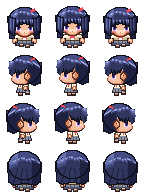
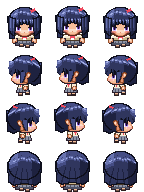
ちびキャラ：横向きの耳のまわりを手本の作りに合わせる（アーモンド形の耳、もみあげ、斜めの線、耳の下の首）
Claude-Session: https://claude.ai/code/session_017gxvkc2TW4xYgG5MuSL3N1

diff --git a/files.js b/files.js
@@ -2,7 +2,7 @@
 // マップなどを足したら scripts に1行足す（順番どおりに読み込む。main.js は最後）。
 // 版の番号 v は tools/stamp.py が書き換える。
 window.FILES = {
-  v: '20261127045616',
+  v: '20261127045947',
   scripts: [
     'engine/core.js',
     'engine/world.js',

diff --git a/tools/sprites/make_chibi.py b/tools/sprites/make_chibi.py
@@ -90,7 +90,7 @@ class Pixel(Chibi):
 
 BASE = {
     'skin1': '#fbdcc8', 'skin2': '#f6bf9c', 'skinS': '#e2916f', 'skinLine': '#5a2c20', 'blush': '#ff8f96',
-    'eyeW': '#ffffff', 'handO': '#97502c', 'lash': '#1a0f1c', 'mouth': '#c85a5e', 'line': '#2a1e2a',
+    'eyeW': '#ffffff', 'handO': '#97502c', 'earO': '#7a3c20', 'lash': '#1a0f1c', 'mouth': '#c85a5e', 'line': '#2a1e2a',
 }
 CHARS = {
     'yui_chibi': dict(BASE, girl=True, **{
@@ -287,7 +287,7 @@ def face_shade(a, c, m, hw_top=9):
 
 # ---- 横向きは「行ごとの前端・後端の表」で形を決める（手本をドット単位で測った値をそのまま書ける）
 # 横顔：(前端, 後端)。27〜28行が鼻筋（−12）、29〜31行で1ドット前に出て鼻（−13）、32行で輪郭1ドット分引っ込んで あごへ
-FACE_SIDE = {**{y: (-9, 2) for y in range(16, 23)}, 23: (-10, 2), 24: (-10, 2), 25: (-11, 2), 26: (-11, 2),
+FACE_SIDE = {**{y: (-9, -1) for y in range(16, 23)}, 23: (-10, 2), 24: (-10, 2), 25: (-11, 2), 26: (-11, 2),
              27: (-12, 2), 28: (-12, 2), 29: (-13, 3), 30: (-13, 3), 31: (-13, 3), 32: (-11, 3), 33: (-10, 3), 34: (-8, 2)}
 FACE_SIDE_LINE = [(-12, 32), (-11, 33), (-10, 34), (-9, 34)] + [(x, 35) for x in range(-8, 4)]  # あごの下だけ濃い輪郭（前の縁は輪郭なし）
 # 横向きの胴：上は細く、前の縁を斜めに下へ広げて、下半身の広さとの落差を出す
@@ -378,9 +378,9 @@ def head(a, c, side):
             fm = a.part([('e', -12.6, 16, 2.8, 34.6)], c['skin1'], c['skin2'], shade=c['skinS'], line=c['skinLine'], lw=0.6)
         bangs(a, c, -15.2, 3, [(-16, -12.4, 25.4), (-12.6, -9, 23.4), (-9.2, -5.6, 24.2), (-5.8, -2.4, 23), (-2.6, 1, 22.4)], base=18, face=fm)
         # 耳（顔の後ろ）
-        a.part([('e', 1, 23.6, 4.6, 29.6)], c['skin2'], c['skin2'], shade=c['skinS'], line=c['skinLine'], lw=0.6)
+        if not isinstance(a, Pixel):
+            a.part([('e', 1, 23.6, 4.6, 29.6)], c['skin2'], c['skin2'], shade=c['skinS'], line=c['skinLine'], lw=0.6)
         if isinstance(a, Pixel):
-            a.dots(3, 25, ['3', '4'], {'3': c['skinS'], '4': c['handO']})
             a.stroke([(-6, 9), (-2, 7), (3, 7)], c['hairL'])
         else:
             a.clip(hm, [('e', -8, 8.4, 6, 11.6)], c['hairL'], 0.45, blur=0.6)
@@ -495,6 +495,63 @@ def hair_shade(im, c, side):
             px[X, Y] = T[t] + (255,)
 
 
+# ---- 横向きの耳のまわり（手本を1ドットずつ測った作りを表にしたもの。左端の列 x、23行から）
+# 1〜4 肌（明・中・影・濃い影）／# 濃い輪郭／o 耳の縁の茶色／H 髪（髪でなければ中間の髪色で塗る）／S 髪の影の色／_ 透明／. そのまま
+EAR_SIDE_BOY = (-2, 23, [
+    'SHH.#ooo....',
+    'SHH.#434o...',
+    'SHH#o312o...',
+    'SHH#4312#...',
+    'SH#43324#...',
+    '##33334#S...',
+    '33333##SS...',
+    '223334SS....',
+    '223334SS....',
+    '233334SSS...',
+    '333344SSS###',
+    '33344##SSSS_',
+    '#####__####_',
+])
+EAR_SIDE_GIRL = (-4, 23, [
+    'SHHHHSHooo....',
+    'SHHHH#o434o...',
+    'SHHHH#o312o...',
+    'SHHHH#4312#...',
+    'SHHHS#3324#...',
+    'SHHH#4334#S...',
+    'SHHH#43##SS...',
+    'SHHS#334SS....',
+    'SHH#4334SS....',
+    'SHS#4334SS....',
+    'SH#44444SSSSS.',
+])
+
+
+def ear_side(im, c):
+    girl = c['girl']
+    x0, y0, rows = EAR_SIDE_GIRL if girl else EAR_SIDE_BOY
+    if girl:
+        hairs = {rgb(h) for h in HAIR_TONES}
+        mid, dark = rgb(HAIR_TONES[2]), rgb(HAIR_TONES[4])
+    else:
+        hairs = {tuple(c[k][:3]) for k in ('hair1', 'hair2', 'hairL')}
+        mid, dark = tuple(c['hair1'][:3]), tuple(c['hair2'][:3])
+    pal = {'1': c['skin1'], '2': c['skin2'], '3': c['skinS'], '4': c['handO'], '#': c['line'], 'o': c['earO'], 'S': dark}
+    px = im.load()
+    for j, row in enumerate(rows):
+        for i, ch in enumerate(row):
+            X, Y = CX + x0 + i, y0 + j
+            if ch == '.':
+                continue
+            if ch == '_':
+                px[X, Y] = (0, 0, 0, 0)
+            elif ch == 'H':
+                if px[X, Y][3] < 128 or tuple(px[X, Y][:3]) not in hairs:
+                    px[X, Y] = mid + (255,)
+            else:
+                px[X, Y] = tuple(pal[ch][:3]) + (255,)
+
+
 Art = Pixel  # 塗り方：Pixel（くっきりしたドット絵）／Chibi（イラストを縮めた柔らかい塗り）
 
 
@@ -507,6 +564,8 @@ def frame(ch, d, step):
     head(up, c, side)
     if c['girl'] and Art is Pixel:
         hair_shade(up.im, c, side)
+    if side == 'left' and Art is Pixel:
+        ear_side(up.im, c)
     im = a.im
     bob = 0 if step == 1 else (1 if Art is Pixel else round(0.6 * SS))
     im.alpha_composite(up.im, (0, bob))

diff --git a/CLAUDE.md b/CLAUDE.md
@@ -10,7 +10,7 @@
 - 校舎（廊下8枚と部屋の型）は `tools/gen_school.py` で生成する。生成した `data/maps/school_*.js` は直接直さず、スクリプトを直して作り直す。お話のイベントは `data/story.js` に `G.addEvents` で足す（`at: '扉の名前'` で位置を決められる）。見取り図の施設名のうち学校が特定されそうな名前は一般的な名前に変える
 - 参考にした市販ゲームのファイル（データ・画像・音・シナリオ）はこのリポジトリに入れない
 - タイル素材（ドット絵世界）は二次配布禁止。元のPNGは入れず、`tools/encode_tileset.py` で変換した `data/tilesets/*.js` だけを入れる。タイトル画面の著作権表示（system.js の credits）は消さない
-- キャラの歩行グラフィックは、いまはちびキャラ（手本：RPGツクールMVの標準キャラの比率、約1.5頭身、1コマ48×48px）。`tools/sprites/make_chibi.py` で描き、`img/chars/haru_chibi.png`・`img/chars/yui_chibi.png` に書き出す。塗りは手本と同じくっきりしたドット絵（48×48pxに直接描く。ベタ塗り、段をつけた影と光、部品ごとに1ドットの濃い輪郭、目は1ドットずつ形を決め、白い光はほぼ使わず外側の白目と上が濃い瞳で表す。髪のかたまりは小さめで額は高め、前髪には毛束の明るい筋を1本おきに入れて凹凸を出す。女子の髪は5段（光・明・中・暗・影）で束ごとに塗り分ける（make_chibi.py の hair_shade。頭頂はつむじから放射状の束で境目に暗い線、頭の丸みに沿って束ごとに上下へずれたギザギザの天使の輪（束の真ん中だけ光の色）、前髪は束ごとに上が明るく下ほど暗く真ん中に光の筋、横・後ろの髪は縦の束で左が明るく右と下が暗い。髪型が手本と違うので、ここは手本を写さず工夫したもの）。胴は肩が細く裾へ広がる八の字で、腕も外へ開く。前髪の毛先は目の上端に接するまで下ろし、真ん中の毛束だけ短くしてそのすき間から額をのぞかせる。前髪のすぐ下の肌には影（1段目は影色、2段目は中間色）。顔の横の髪で、目の外側の端からあごの近くまで顔を縁取る（男子は細く短め）。肌は桃色がかった色（白っぽくしない）。顔は上下と左右に4段（明・中間・影・濃い影）の明暗をドット単位でつけて立体感を出す（前髪の下は中間色→目の下から頬の段がいちばん明るい→その下は中間色→あごの段は影色。左右の端は内側へ濃い影→影→中間色、頬の段は影を1段多く）。目はまるごと見せる。やや上から見下ろしつつ足先まで全身を見せる（胴→スカート／ズボン→脚1ドット（女子は肌色）→靴2ドット（上が明るく下が暗い）。左右の足は幅5ドット（輪郭＋中身3）で間に1ドットのすき間。歩くと上げた足が1ドット上がる）。目は顔の大きさを変えずに大きく、5×5ドット（上まつげは3ドット幅で2段目が内側へ1ドットずれる斜め、黒目3ドット幅で上が濃く一番下が明るい、真ん中に縦2ドットの瞳孔、白目は外側3段・内側2段の両側）。目の間は7ドットで、目の外側は顔の縁（横の髪）に接する。見下ろす角度なので、肩はあごのすぐ下の行から始まり（上の面が明るく見える）、なで肩で下へ広がる。手は丸ではなくミトン形（幅4×高さ5、外側の輪郭は茶色・内側と下は濃い線で腕と胴の境目にもなる、明るい肌は真ん中上寄りに2×2、下の段の内側が欠けてその上に親指の付け根の点）。服の輪郭も濃い色。男子はシャツ6段・ベルト1段・ズボン3段（明るめの色、股の線）。女子のスカートは下半分に、地より濃い色の縦の折り目の線（中心をはさんで4ドット間隔の2本と、裾の両端寄り）。口は省いて鼻を1ドットの点で表す（頬のいちばん明るい段の最後の行、31行目）。幅の割合は、手を含めた体が頭の約8割。その中で胴は細く、肩と手を大きめにする）。横向き（左向き、前がマイナス）は、顔と胴の形を make_chibi.py の「行ごとの前端・後端の表」（FACE_SIDE・TORSO_SIDE_* など）で決める。手本を拡大して各行の端の位置を測り、その数字をそのまま表に書く（楕円や多角形で近似しない）。横顔は鼻筋がまっすぐ縦に続いたあと鼻で1ドット前に出て（鼻筋から下は顔より前に髪の輪郭を残さない）、その下で輪郭1ドット分の落差をつけてあごへ。あごは34行で終わり（下に出っ張らせない）、前の縁は輪郭線なしで濃い肌色、あごの下だけ濃い輪郭。目の前端は鼻筋から肌4ドット後ろ、前が黒目で後ろが白目。後ろに4×6ドットの耳。いちばん前の前髪は額の前に垂れる。明暗は前の縁が濃い影、前寄りの頬が最も明るく、耳に近い後ろほど暗い。女子の後ろ髪はあごの高さまで。胴は上が細く（36行で9〜10ドット）前の縁を斜めに下へ広げ、スカート・ズボンの広さとの落差を出す。手は胴の中ほどより後ろに4×5ドット、立ち姿は前後の足が並んで見える。手本を使うときは、拡大して絵そのものを見比べるのに加えて、行ごとの端の位置（前端・後端・上下の終わり）を手本とうちで並べて書き出し、1行ずつずれを確かめてから直す（ざっくりした観察で済ませない）。端は肌の色だけでなく、髪や輪郭も含めた「透明でない最も外側の点」で測る（肌だけ測ると、顔の前にはみ出した髪の輪郭で鼻が平らになっているのを見落とす）。「イラストを縮めた柔らかい塗り」は4頭身のための試しで、ちびキャラには使わない。3頭身・4頭身は見送り。約4頭身の版（`make_trial.py`→`trial.png`、`make_haru.py`→`haru.png`）も残してある。手本の絵は写さない（比率と描き方だけ合わせる）。直したらスクリプトを動かして画像を作り直す
+- キャラの歩行グラフィックは、いまはちびキャラ（手本：RPGツクールMVの標準キャラの比率、約1.5頭身、1コマ48×48px）。`tools/sprites/make_chibi.py` で描き、`img/chars/haru_chibi.png`・`img/chars/yui_chibi.png` に書き出す。塗りは手本と同じくっきりしたドット絵（48×48pxに直接描く。ベタ塗り、段をつけた影と光、部品ごとに1ドットの濃い輪郭、目は1ドットずつ形を決め、白い光はほぼ使わず外側の白目と上が濃い瞳で表す。髪のかたまりは小さめで額は高め、前髪には毛束の明るい筋を1本おきに入れて凹凸を出す。女子の髪は5段（光・明・中・暗・影）で束ごとに塗り分ける（make_chibi.py の hair_shade。頭頂はつむじから放射状の束で境目に暗い線、頭の丸みに沿って束ごとに上下へずれたギザギザの天使の輪（束の真ん中だけ光の色）、前髪は束ごとに上が明るく下ほど暗く真ん中に光の筋、横・後ろの髪は縦の束で左が明るく右と下が暗い。髪型が手本と違うので、ここは手本を写さず工夫したもの）。胴は肩が細く裾へ広がる八の字で、腕も外へ開く。前髪の毛先は目の上端に接するまで下ろし、真ん中の毛束だけ短くしてそのすき間から額をのぞかせる。前髪のすぐ下の肌には影（1段目は影色、2段目は中間色）。顔の横の髪で、目の外側の端からあごの近くまで顔を縁取る（男子は細く短め）。肌は桃色がかった色（白っぽくしない）。顔は上下と左右に4段（明・中間・影・濃い影）の明暗をドット単位でつけて立体感を出す（前髪の下は中間色→目の下から頬の段がいちばん明るい→その下は中間色→あごの段は影色。左右の端は内側へ濃い影→影→中間色、頬の段は影を1段多く）。目はまるごと見せる。やや上から見下ろしつつ足先まで全身を見せる（胴→スカート／ズボン→脚1ドット（女子は肌色）→靴2ドット（上が明るく下が暗い）。左右の足は幅5ドット（輪郭＋中身3）で間に1ドットのすき間。歩くと上げた足が1ドット上がる）。目は顔の大きさを変えずに大きく、5×5ドット（上まつげは3ドット幅で2段目が内側へ1ドットずれる斜め、黒目3ドット幅で上が濃く一番下が明るい、真ん中に縦2ドットの瞳孔、白目は外側3段・内側2段の両側）。目の間は7ドットで、目の外側は顔の縁（横の髪）に接する。見下ろす角度なので、肩はあごのすぐ下の行から始まり（上の面が明るく見える）、なで肩で下へ広がる。手は丸ではなくミトン形（幅4×高さ5、外側の輪郭は茶色・内側と下は濃い線で腕と胴の境目にもなる、明るい肌は真ん中上寄りに2×2、下の段の内側が欠けてその上に親指の付け根の点）。服の輪郭も濃い色。男子はシャツ6段・ベルト1段・ズボン3段（明るめの色、股の線）。女子のスカートは下半分に、地より濃い色の縦の折り目の線（中心をはさんで4ドット間隔の2本と、裾の両端寄り）。口は省いて鼻を1ドットの点で表す（頬のいちばん明るい段の最後の行、31行目）。幅の割合は、手を含めた体が頭の約8割。その中で胴は細く、肩と手を大きめにする）。横向き（左向き、前がマイナス）は、顔と胴の形を make_chibi.py の「行ごとの前端・後端の表」（FACE_SIDE・TORSO_SIDE_* など）で決める。手本を拡大して各行の端の位置を測り、その数字をそのまま表に書く（楕円や多角形で近似しない）。横顔は鼻筋がまっすぐ縦に続いたあと鼻で1ドット前に出て（鼻筋から下は顔より前に髪の輪郭を残さない）、その下で輪郭1ドット分の落差をつけてあごへ。あごは34行で終わり（下に出っ張らせない）、前の縁は輪郭線なしで濃い肌色、あごの下だけ濃い輪郭。目の前端は鼻筋から肌4ドット後ろ、前が黒目で後ろが白目。耳のまわりは make_chibi.py の EAR_SIDE_BOY／EAR_SIDE_GIRL の表で描く（手本を1ドットずつ測った作り：縦長のアーモンド形の耳で、上の縁は茶色、前の縁は黒、真ん中がいちばん明るい。耳の前はもみあげの髪で、顔側の縁は暗い髪色。もみあげの下の縁は耳の前から左下へ下りる黒い斜めの線（女子はあごの近くまで垂れる）。耳の下はあご・首の肌が後ろへ続き、その後ろの髪は影の色）。いちばん前の前髪は額の前に垂れる。明暗は前の縁が濃い影、前寄りの頬が最も明るく、耳に近い後ろほど暗い。女子の後ろ髪はあごの高さまで。胴は上が細く（36行で9〜10ドット）前の縁を斜めに下へ広げ、スカート・ズボンの広さとの落差を出す。手は胴の中ほどより後ろに4×5ドット、立ち姿は前後の足が並んで見える。手本を使うときは、拡大して絵そのものを見比べるのに加えて、行ごとの端の位置（前端・後端・上下の終わり）を手本とうちで並べて書き出し、1行ずつずれを確かめてから直す（ざっくりした観察で済ませない）。端は肌の色だけでなく、髪や輪郭も含めた「透明でない最も外側の点」で測る（肌だけ測ると、顔の前にはみ出した髪の輪郭で鼻が平らになっているのを見落とす）。「イラストを縮めた柔らかい塗り」は4頭身のための試しで、ちびキャラには使わない。3頭身・4頭身は見送り。約4頭身の版（`make_trial.py`→`trial.png`、`make_haru.py`→`haru.png`）も残してある。手本の絵は写さない（比率と描き方だけ合わせる）。直したらスクリプトを動かして画像を作り直す
 - 字体：ゲームの文字は M+ 1m（`fonts/mplus-1m-regular.ttf`、M+ FONTS は自由に使用・配布できる）。`G.font()` と css/style.css で指定している。収録外の文字（♪など）は端末のフォントになる
 - 公開は gh-pages ブランチから。更新したら、まず `python3 tools/stamp.py`（files.js の版の番号を新しくする。ブラウザが古いファイルを使い回して新旧が混ざるのを防ぐ）、コミットして `git push origin main main:gh-pages` で両方に送る。そのあと `gh api repos/nzanke/game-test/actions/runs` で「pages build and deployment」が新しいコミットで completed success になったのを確かめてから報告する。ビルドが走らないときは空のコミットを送り直す（Pages 設定のAPIは作業環境から使えない）
 - やりとりと説明は日本語で
